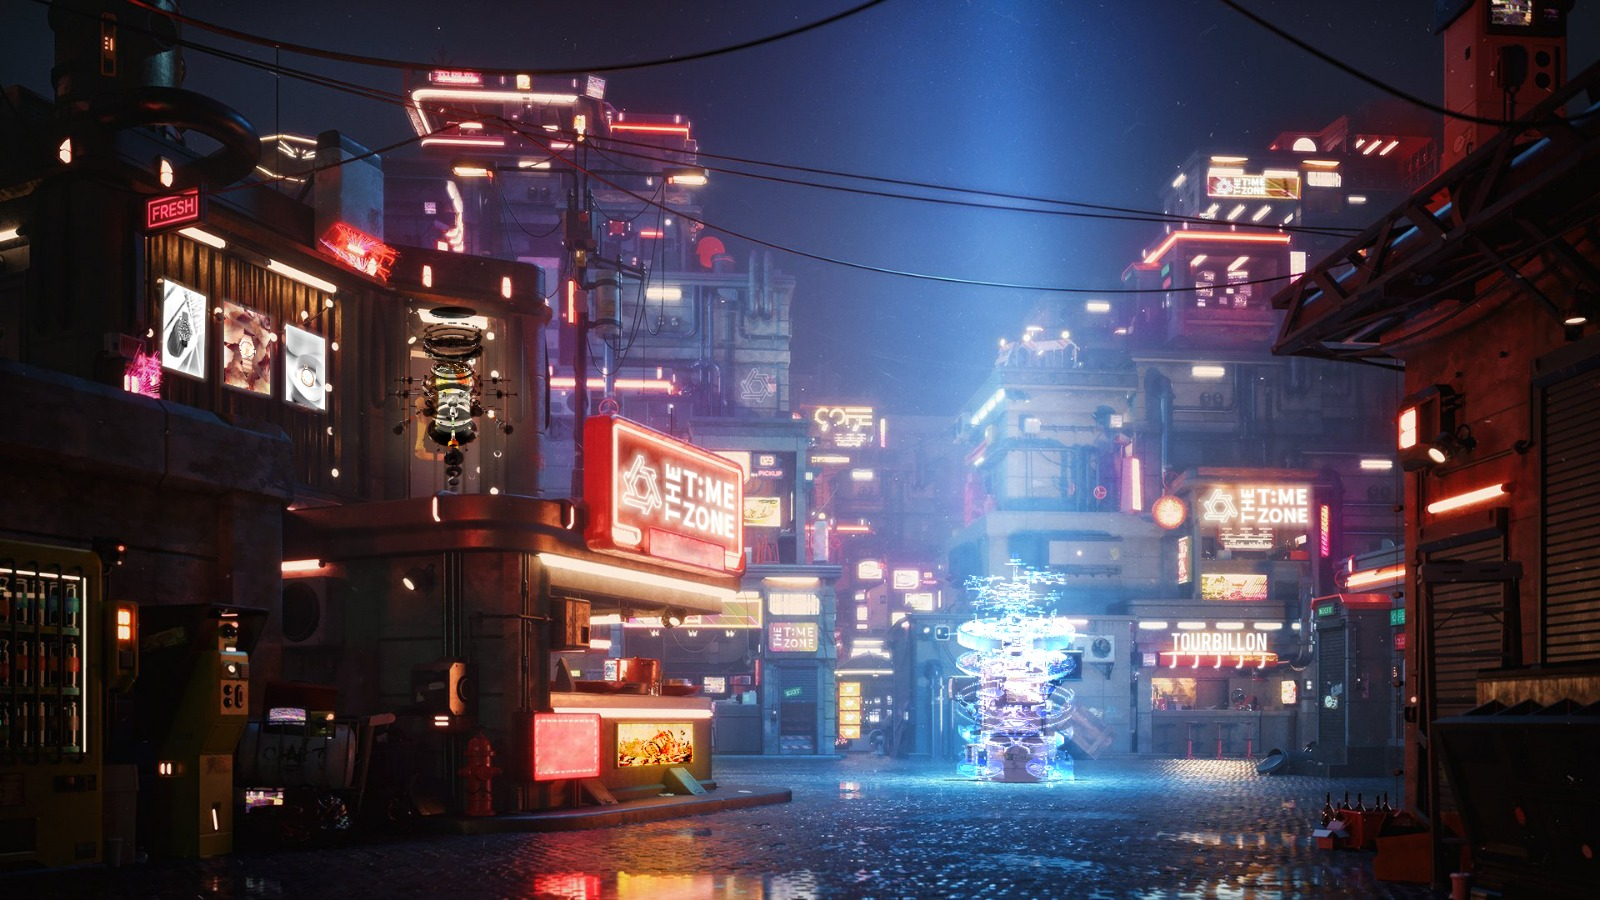
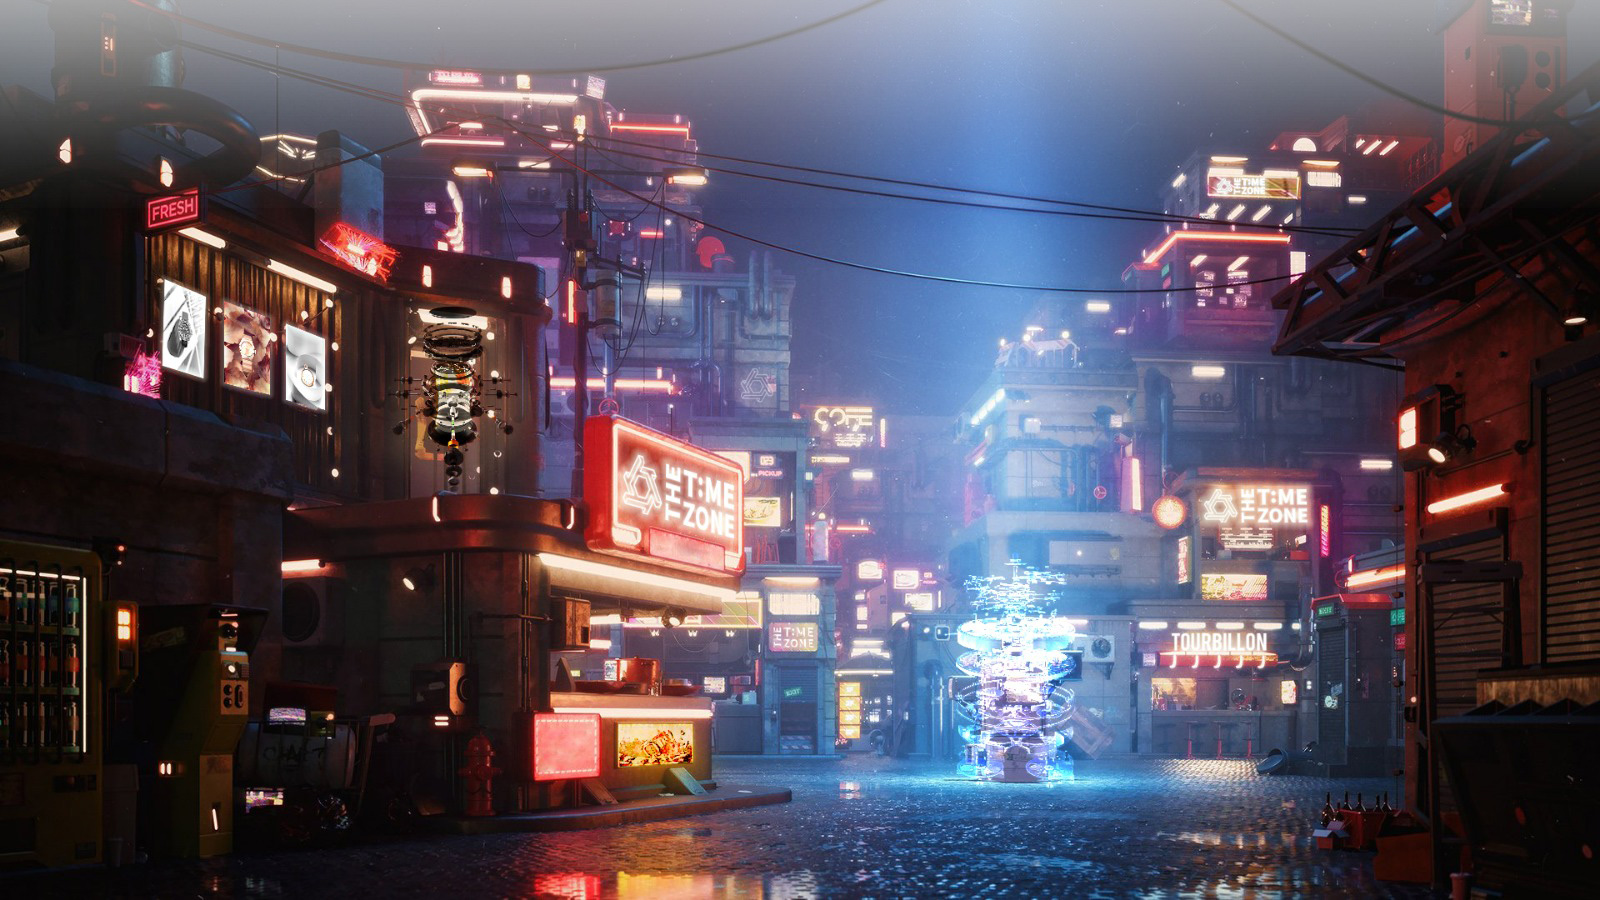
change

Changed region(s): [[0.0, 0.0, 1.0, 0.1867]]

diff --git a/index.html b/index.html
@@ -108,13 +108,14 @@
 <!-- Banner -->
 <section class="metabunny-banner">
     <div style="width: 100%;">
-        <video preload="auto" autoplay="" loop="" playsinline="" webkit-playsinline="" x5-playsinline=""
+        <!--<video preload="auto" autoplay="" loop="" playsinline="" webkit-playsinline="" x5-playsinline=""
                style="width: 100%; height: 100%;">
             <source src="assets/videos/bunny.mp4" type="video/mp4">
             <source src="assets/videos/bunny.webm" type="video/webm">
-        </video>
+        </video>-->
+        <img src="assets/images/bunnyverse/1.jpg" class="img-fluid"/>
         <img src="assets/images/banner/banner.png" alt="banner" class="banner_1">
-        <img src="assets/images/banner/banner_2.png" alt="overview" class="banner_2">
+<!--        <img src="assets/images/banner/banner_2.png" alt="overview" class="banner_2">-->
         <div class="banner-button">
             <button type="button" class="banner-button-1 connect-button">mint</button>
             <a href="#" target="_blank">
@@ -290,7 +291,6 @@
                     </h5>
                     <div class="text-center mt-3">
                         <img src="assets/images/bunnyverse/1.jpg" class="img-fluid" alt=""/>
-                        <img src="assets/images/bunnyverse/2.jpg" class="img-fluid" alt=""/>
                     </div>
                 </div>
                 <div class="tab-pane" id="profile" role="tabpanel" aria-labelledby="profile-tab">
@@ -342,12 +342,12 @@
     <div class="row pt-5">
         <div class="col-12">
             <div class="carousel">
-                <div><img src="assets/images/preview/002.png" alt=""></div>
-                <div><img src="assets/images/preview/003.png" alt=""></div>
-                <div><img src="assets/images/preview/004.png" alt=""></div>
-                <div><img src="assets/images/preview/005.png" alt=""></div>
-                <div><img src="assets/images/preview/Dy001.png" alt=""></div>
-                <div><img src="assets/images/preview/002.png" alt=""></div>
+                <div><img src="assets/images/Preview/002.png" alt=""></div>
+                <div><img src="assets/images/Preview/003.png" alt=""></div>
+                <div><img src="assets/images/Preview/004.png" alt=""></div>
+                <div><img src="assets/images/Preview/005.png" alt=""></div>
+                <div><img src="assets/images/Preview/Dy001.png" alt=""></div>
+                <div><img src="assets/images/Preview/002.png" alt=""></div>
             </div>
         </div>
     </div>
@@ -363,7 +363,7 @@
     <div class="row">
         <div class="col-12">
             <div class="card mb-3">
-                <div class="card-header" style="color: #000000">
+                <div class="card-header" style="color: #fff">
                     Initial Launch (Presale 20th 4PM HKT, Public Launch 21st 4PM HKT)
                 </div>
                 <div class="card-body">
@@ -387,7 +387,7 @@
                 </div>
             </div>
             <div class="card mb-3">
-                <div class="card-header">
+                <div class="card-header" style="color: #fff">
                     Initial Launch (Presale 20th 4PM HKT, Public Launch 21st 4PM HKT)
                 </div>
                 <div class="card-body">
@@ -411,7 +411,7 @@
                 </div>
             </div>
             <div class="card mb-3">
-                <div class="card-header">
+                <div class="card-header" style="color: #fff">
                     Initial Launch (Presale 20th 4PM HKT, Public Launch 21st 4PM HKT)
                 </div>
                 <div class="card-body">
@@ -512,11 +512,11 @@
                 <div class="card mb-3 custom-card-community pt-3" style="max-width: 940px;">
                     <div class="row g-0">
                         <div class="col-md-4">
-                            <img src="assets/images/community/1.png" class="roadmap-image" alt="...">
+                            <img src="assets/images/Preview/1.png" class="roadmap-image" alt="...">
                         </div>
                         <div class="col-md-8">
                             <div class="card-body" style="text-align: left">
-                                <p class="card-text" style="color: #000000">
+                                <p class="card-text text-white" style="color: #000000">
                                     We are a group of people that love games and
                                     fun, so we want the community to be like
                                     that as well! There will be contests held
@@ -558,7 +558,7 @@
 </section>
 
 <!-- FAQ Section -->
-<section class="container pt-5">
+<!--<section class="container pt-5">
     <div class="row text-center mb-5">
         <div class="col-12">
             <h1 class="content-header">FAQ</h1>
@@ -627,7 +627,7 @@
             </div>
         </div>
     </div>
-</section>
+</section>-->
 
 <!-- Client Section -->
 <section class="container-fluid pt-5 mt-3 pb-5" style="background-color: #000000">
@@ -650,7 +650,7 @@
 </section>
 
 <!-- Footer Section -->
-<footer class="text-muted py-5">
+<footer class="text-muted pt-5">
     <div class="container footer-container" style="text-align: center">
         <p class="float-end mb-1">
             <a href="#">
@@ -685,29 +685,29 @@
                     <img src="assets/images/icon/opensea.png" alt="" style="width: 20px"/>
                 </a>
                 <a href="#" class="me-1">
-                    <i class="fa-brands fa-discord text-white"></i>
+                    <i class="fa-brands fa-discord text-dark"></i>
                 </a>
                 <a href="#" class="me-1">
-                    <i class="fa-brands fa-instagram text-white"></i>
+                    <i class="fa-brands fa-instagram text-dark"></i>
                 </a>
                 <a href="#" class="me-1">
-                    <i class="fa-brands fa-twitter text-white"></i>
+                    <i class="fa-brands fa-twitter text-dark"></i>
                 </a>
                 <a href="#" class="me-1">
-                  <i class="fa-brands fa-telegram text-white"></i>
+                  <i class="fa-brands fa-telegram text-dark"></i>
                 </a>
             </span>
         </p>
-        <p class="text-white" style="font-size: 8px;width: 50%;text-align: left">
+       <!-- <p class="text-white" style="font-size: 8px;width: 50%;text-align: left">
             This product is not a financial product or any investment and
             wealth management product. The design purpose of the product is not
             for investment. Whether buying or selling this product, it is the buyer's
             own decision and responsibility. The company cannot predict the future
             price changes of the product. or control, if there is any price
             fluctuation, it has nothing to do with the company.
-        </p>
+        </p> <!-->
     </div>
-    <img src="assets/images/footer/1.png" alt="bg" class="footer-bg">
+<!--    <img src="assets/images/footer/1.png" alt="bg" class="footer-bg">-->
 </footer>
 
 </body>

diff --git a/assets/css/style.css b/assets/css/style.css
@@ -9,8 +9,8 @@
 }
 
 body {
-    background-color: #000000;
-    color: white;
+    background-color: #f8f9fa;
+    color:#0d6efd;
 }
 
 .header_custom_background {
@@ -41,11 +41,11 @@ body {
 }
 
 .nav-item:hover {
-    background-color: rgba(215, 0, 60, .8);
+    background-color:#0d6efd;
 }
 
 .dropdown-menu {
-    background: rgba(255, 0, 0, .7);
+    background: #0d6efd;
     text-align: center;
 }
 
@@ -55,7 +55,7 @@ body {
 
 .dropdown-item:hover {
     color: #fff;
-    background: rgba(215, 0, 60, .8);
+    background: #0d6efd;
 }
 
 .header_button {
@@ -97,12 +97,12 @@ body {
     cursor: pointer;
     border-radius: 10px;
     text-transform: uppercase;
-    background-image: linear-gradient(90deg, #e52d27 0, #b31217 51%, #e52d27);
-    box-shadow: 0 8px 0 #5b050d, 0 10px 15px rgb(0 0 0 / 35%);
+    background-image:linear-gradient(to right,#0d6efd,#1663be,#1357a6);
+    box-shadow: 0 8px 0 #0d6efd, 0 10px 15px rgb(0 0 0 / 35%);
 }
 
 .connect-button:hover {
-    background-image: linear-gradient(90deg, #b31217 0, #b31217 51%, #b31217);
+    background-image:linear-gradient(to right,#0d6efd,#1663be,#1357a6);;
     color: #fff;
 }
 
@@ -173,6 +173,7 @@ body {
 
 .content {
     font-family: 'Noto-Sans';
+    color: #000000;
 }
 
 .custom-content-width{
@@ -193,12 +194,12 @@ body {
 }
 
 .nav-tabs .nav-link.active{
-    background-image: linear-gradient(90deg, #e52d27 0, #b31217 51%, #e52d27);
+    background-color:#0d6efd;
     border: none;
 }
 
 .nav-tabs .nav-link:hover{
-    background-image: linear-gradient(90deg, #e52d27 0, #b31217 51%, #e52d27);
+    background-color: #0d6efd;
     border: none;
 }
 
@@ -207,7 +208,7 @@ body {
     text-decoration: none;
     cursor: pointer;
     text-transform: uppercase;
-    background-image: linear-gradient(90deg, #e52d27 0, #b31217 51%, #e52d27);
+    background-image:linear-gradient(to right,#0d6efd,#1663be,#1357a6);
 }
 
 .nav-link-button:hover {
@@ -232,8 +233,8 @@ body {
 
 .roadmap-image {
     margin-bottom: 20px;
-    width: 100%;
-    max-width: 214px;
+    width: 250px;
+    height: 250px;
     border-radius: 50%;
     border: 3px solid #444;
 }
@@ -250,7 +251,7 @@ body {
 }
 
 .custom-card-community{
-    background-image: linear-gradient(315deg,#3f0d12,#a71d31 74%);
+    background-color:#0d6efd;
     color: white;
     border: none;
 }
@@ -268,25 +269,25 @@ body {
     font-size: 12px;
     text-transform: uppercase;
     background-color: #f7b42c;
-    background-image: linear-gradient(315deg,#f7b42c,#fc575e 74%);
+    background-image: linear-gradient(to right,#0d6efd,#1663be,#1357a6);
     border: none;
 }
 
 .top_button:hover{
-    background-color: #fc575e;
-    background-image: linear-gradient(315deg,#fc575e,#f7b42c 74%);
+    background-color:#0d6efd;
+    background-image: linear-gradient(to right,#0d6efd,#1663be,#1357a6);
 }
 
 
 .nav-item .footer-link{
     font-family: Metabunny-Font;
-    color: white;
+    color: #000000;
     letter-spacing: 5px;
     font-size: 25px;
 }
 
 .nav-item .footer-link:hover{
-    background: rgba(255, 255, 255, 0) !important;
+    background: #1663be !important;
 }
 
 
@@ -307,10 +308,27 @@ body {
 }
 
 .card-header{
-    background-image: linear-gradient(to right, #fc575e , #900c11);
+    background-image:linear-gradient( to right,#0d6efd,#1663be,#1357a6);
 }
 
 .accordion-button{
-    background-image: linear-gradient(to right,#351215, #351215);
+    background-image:linear-gradient( to right,#0d6efd,#1b7ced,#1357a6);
     color: white;
+}
+.h1{
+    color:#0d6efd;
+}
+p{
+   color:#000000;
+}
+
+h6{
+    color:#000000;
+}
+.card-header{
+    color:#000000;
+}
+
+.accordion-button{
+    color: #ffffff !important;
 }
